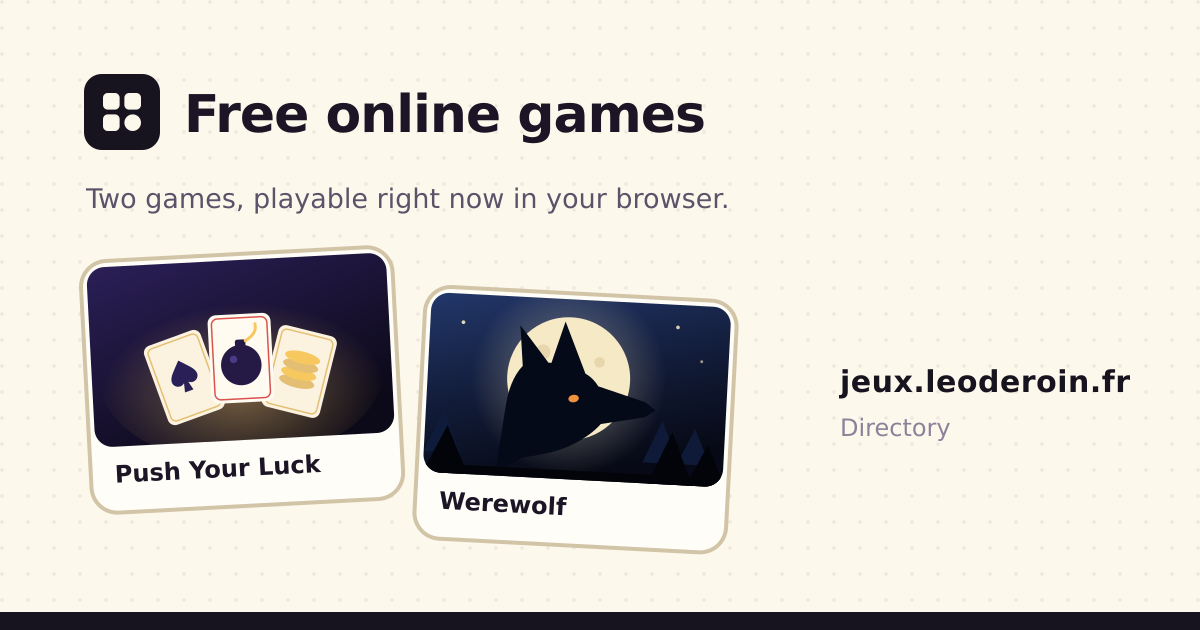
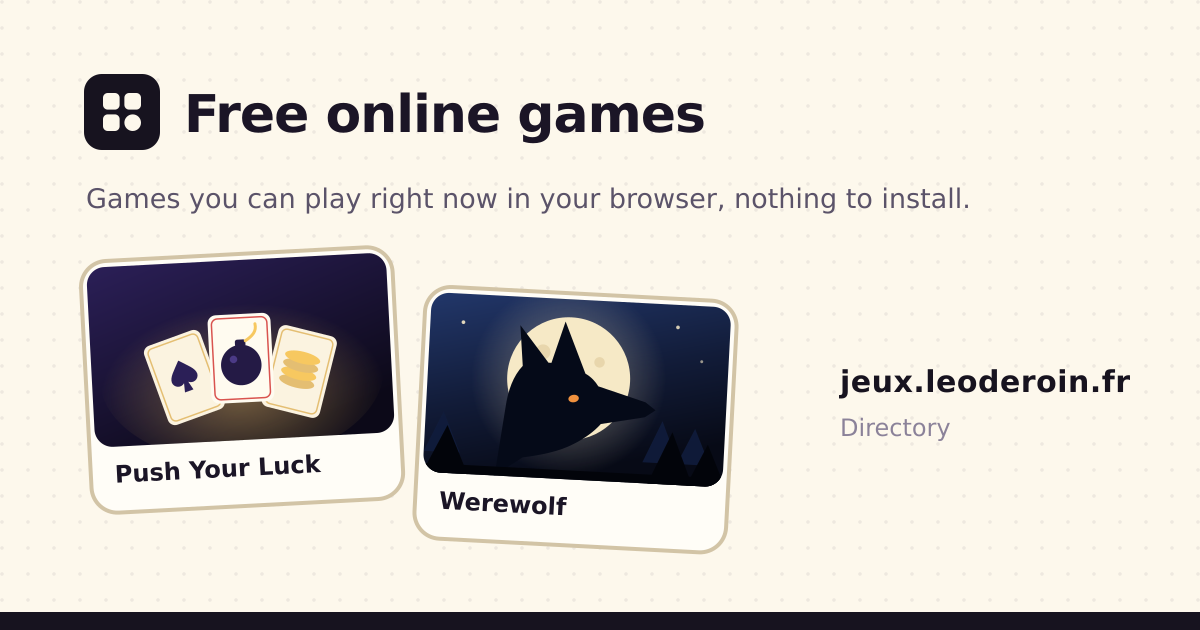
fix(seo): le site ne s'annonce plus par la liste de ses jeux
La description, l'alternative de l'image de partage et la mention légale des
marques énuméraient « Push Your Luck et Loups-Garous ». C'était juste à deux
jeux ; à quatre, l'extrait affiché dans les résultats de recherche en oubliait
la moitié, et il aurait fallu le reprendre au suivant.

Le site décrit désormais son OFFRE et non son catalogue. Les noms des jeux
restent là où ils sont vrais : sur leurs cartes, et dans les données
structurées.

Images de partage régénérées : elles portaient encore l'accroche « Deux jeux ».

⚠ Reste à trancher : elles ne montrent que DEUX vignettes, codées en dur dans
`scripts/export-og.mts` avec les tracés recopiés de `GameArt.tsx` — le fichier
signale lui-même le danger. À quatre jeux, l'image annonce la moitié du
catalogue.

Changed region(s): [[0.0617, 0.3016, 0.8017, 0.3317]]

diff --git a/src/i18n/dictionaries/fr.ts b/src/i18n/dictionaries/fr.ts
@@ -7,9 +7,9 @@ export const fr = {
         title: 'Jeux en ligne gratuits',
         titleTag: 'Jeux en ligne gratuits, jouables dans le navigateur',
         description:
-            'Push Your Luck et Loups-Garous : des jeux gratuits, sans inscription, jouables directement dans le navigateur. Rien à installer.',
+            'Des jeux gratuits, sans inscription, jouables directement dans le navigateur. Rien à installer, rien à télécharger : on ouvre la page et on joue.',
         shortName: 'Jeux',
-        ogAlt: 'Jeux en ligne gratuits — Push Your Luck et Loups-Garous',
+        ogAlt: 'Jeux en ligne gratuits, jouables dans le navigateur',
         keywords:
             'jeux en ligne, jeu navigateur, jeu gratuit, jeu de cartes, loup-garou en ligne, Léo Deroin',
     },
@@ -127,7 +127,7 @@ export const fr = {
             },
             {
                 title: 'Contenu',
-                body: 'Les textes et les illustrations de ce site sont l’œuvre de son éditeur. Les noms Push Your Luck et Loups-Garous désignent des jeux édités par la même personne, sur leurs propres domaines et sous leurs propres conditions.',
+                body: 'Les textes et les illustrations de ce site sont l’œuvre de son éditeur. Les noms des jeux référencés ici désignent des jeux édités par la même personne, sur leurs propres domaines et sous leurs propres conditions.',
             },
             {
                 title: 'Liens sortants',

diff --git a/src/i18n/dictionaries/es.ts b/src/i18n/dictionaries/es.ts
@@ -5,9 +5,9 @@ export const es: Dictionary = {
         title: 'Juegos en línea gratis',
         titleTag: 'Juegos en línea gratis, jugables en el navegador',
         description:
-            'Push Your Luck y Hombres Lobo: juegos gratis, sin registro, jugables directamente en el navegador. Nada que instalar.',
+            'Juegos gratis, sin registro, jugables directamente en el navegador. Nada que instalar, nada que descargar: abres la página y juegas.',
         shortName: 'Juegos',
-        ogAlt: 'Juegos en línea gratis — Push Your Luck y Hombres Lobo',
+        ogAlt: 'Juegos en línea gratis, jugables en el navegador',
         keywords:
             'juegos en línea, juego de navegador, juego gratis, juego de cartas, hombres lobo en línea, Léo Deroin',
     },
@@ -122,7 +122,7 @@ export const es: Dictionary = {
             },
             {
                 title: 'Contenido',
-                body: 'Los textos y las ilustraciones de este sitio son obra de su editor. Los nombres Push Your Luck y Hombres Lobo designan juegos editados por la misma persona, en sus propios dominios y bajo sus propias condiciones.',
+                body: 'Los textos y las ilustraciones de este sitio son obra de su editor. Los nombres de los juegos aquí listados designan juegos editados por la misma persona, en sus propios dominios y bajo sus propias condiciones.',
             },
             {
                 title: 'Enlaces salientes',

diff --git a/src/i18n/dictionaries/de.ts b/src/i18n/dictionaries/de.ts
@@ -5,9 +5,9 @@ export const de: Dictionary = {
         title: 'Kostenlose Onlinespiele',
         titleTag: 'Kostenlose Onlinespiele, direkt im Browser spielbar',
         description:
-            'Push Your Luck und Werwölfe: kostenlose Spiele, ohne Anmeldung, direkt im Browser spielbar. Nichts zu installieren.',
+            'Kostenlose Spiele, ohne Anmeldung, direkt im Browser spielbar. Nichts zu installieren, nichts herunterzuladen: Seite öffnen und spielen.',
         shortName: 'Spiele',
-        ogAlt: 'Kostenlose Onlinespiele — Push Your Luck und Werwölfe',
+        ogAlt: 'Kostenlose Onlinespiele, direkt im Browser spielbar',
         keywords:
             'Onlinespiele, Browserspiel, kostenloses Spiel, Kartenspiel, Werwölfe online, Léo Deroin',
     },
@@ -122,7 +122,7 @@ export const de: Dictionary = {
             },
             {
                 title: 'Inhalte',
-                body: 'Texte und Illustrationen dieser Seite stammen vom Herausgeber. Die Namen Push Your Luck und Werwölfe bezeichnen Spiele derselben Person, auf eigenen Domains und zu eigenen Bedingungen.',
+                body: 'Texte und Illustrationen dieser Seite stammen vom Herausgeber. Die Namen der hier aufgeführten Spiele bezeichnen Spiele derselben Person, auf eigenen Domains und zu eigenen Bedingungen.',
             },
             {
                 title: 'Ausgehende Links',

diff --git a/src/i18n/dictionaries/en.ts b/src/i18n/dictionaries/en.ts
@@ -5,9 +5,9 @@ export const en: Dictionary = {
         title: 'Free online games',
         titleTag: 'Free online games, playable in your browser',
         description:
-            'Push Your Luck and Werewolf: free games, no sign-up, playable straight from your browser. Nothing to install.',
+            'Free games, no sign-up, playable straight from your browser. Nothing to install, nothing to download: open the page and play.',
         shortName: 'Games',
-        ogAlt: 'Free online games — Push Your Luck and Werewolf',
+        ogAlt: 'Free online games, playable in your browser',
         keywords: 'online games, browser game, free game, card game, werewolf online, Léo Deroin',
     },
     header: {
@@ -121,7 +121,7 @@ export const en: Dictionary = {
             },
             {
                 title: 'Content',
-                body: 'The text and illustrations on this site are the work of its publisher. The names Push Your Luck and Werewolf refer to games published by the same person, on their own domains and under their own terms.',
+                body: 'The text and illustrations on this site are the work of its publisher. The names of the games listed here refer to games published by the same person, on their own domains and under their own terms.',
             },
             {
                 title: 'Outbound links',
